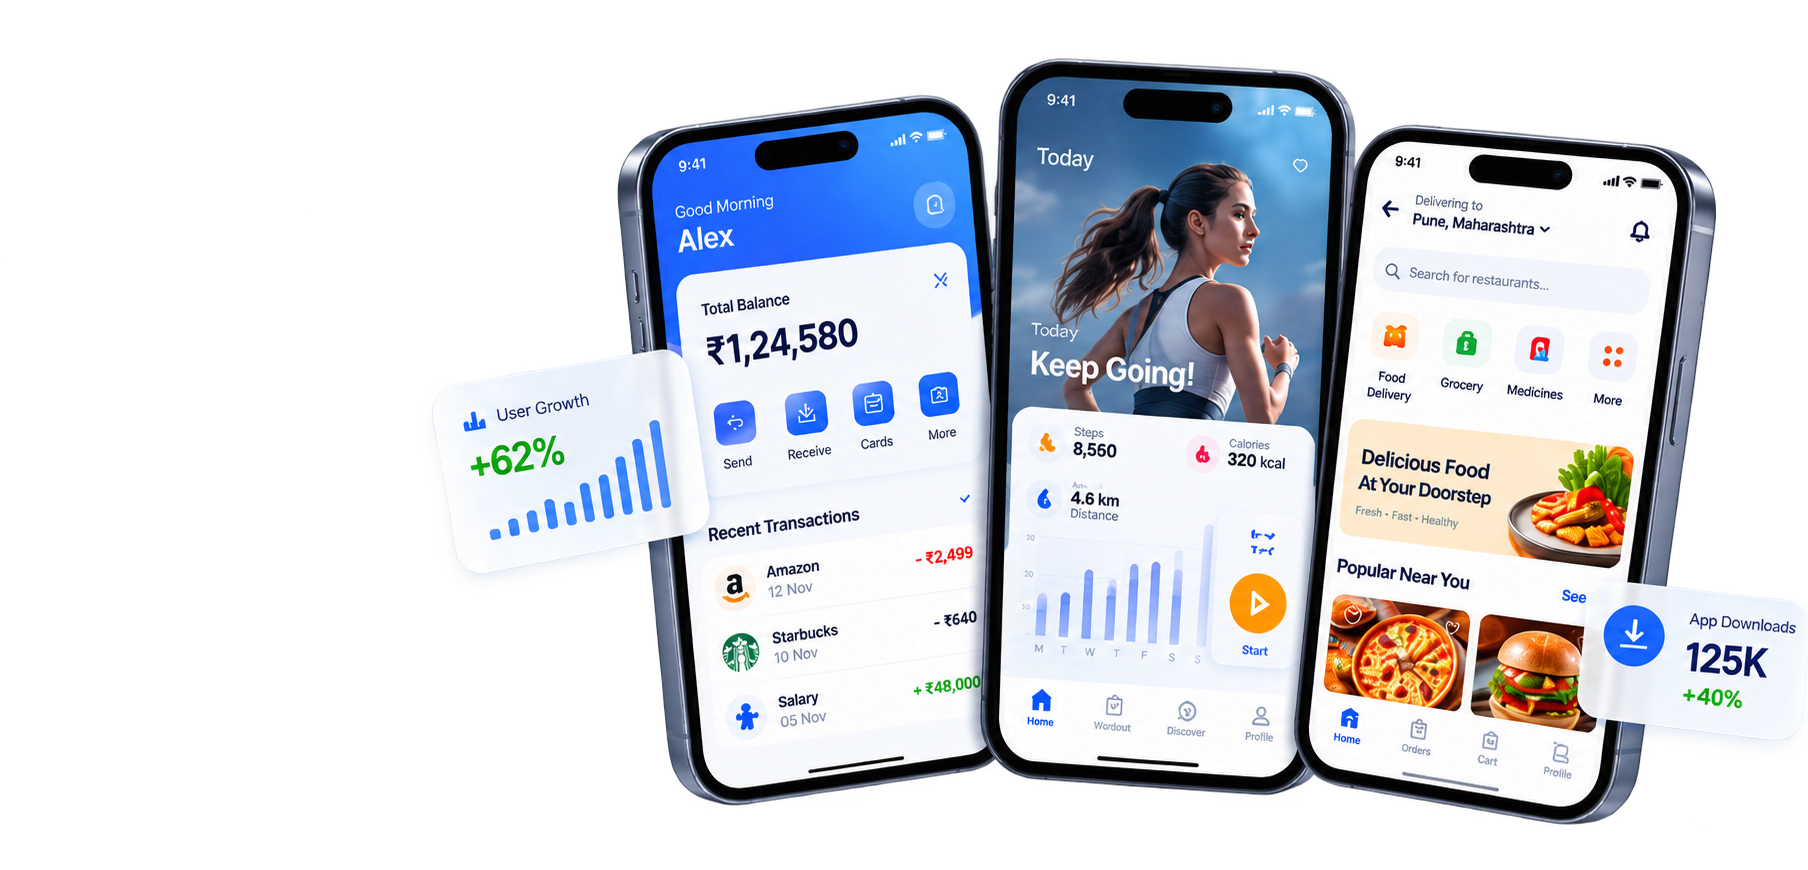
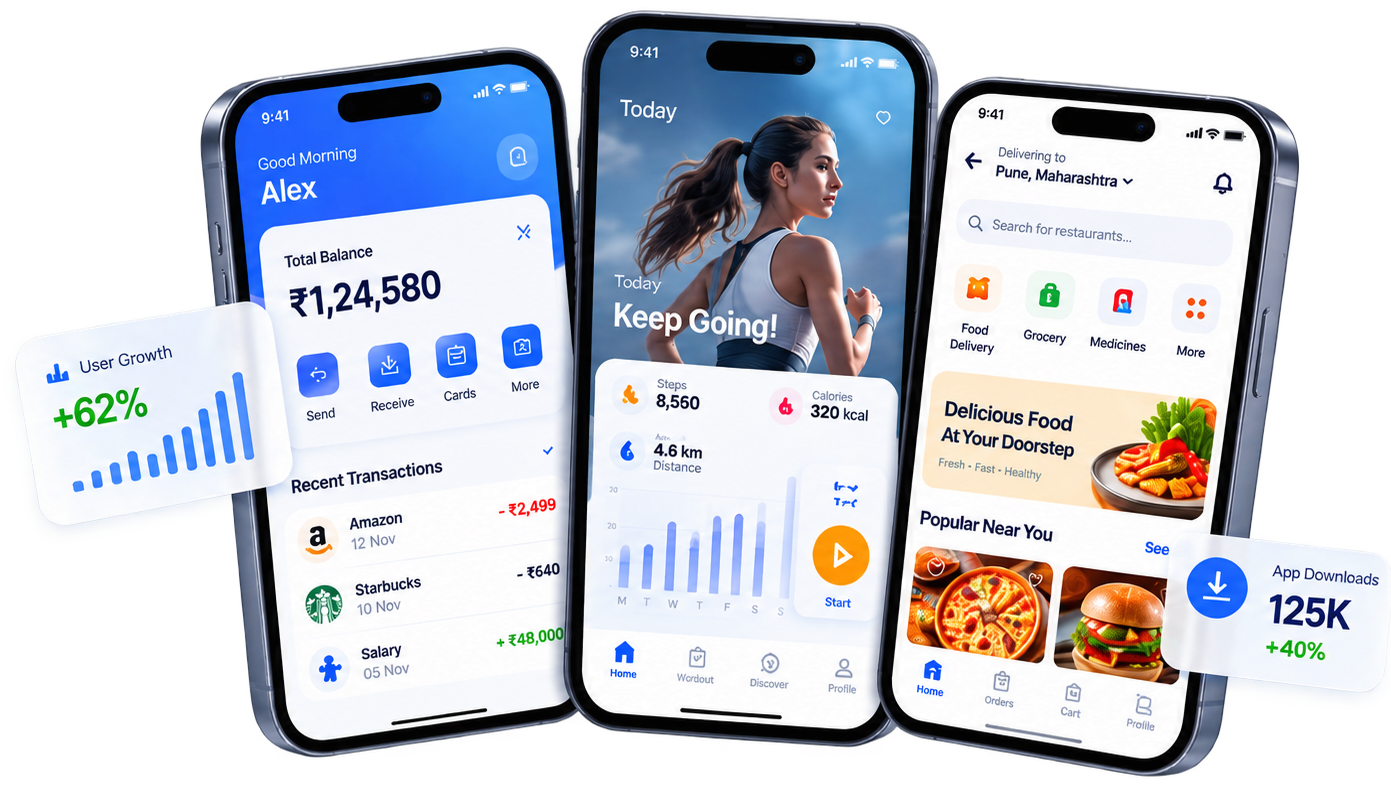
home page  ui

diff --git a/src/pages/Careers.tsx b/src/pages/Careers.tsx
@@ -1,11 +1,5 @@
-import { useState, useRef, useEffect } from "react";
+import { useState, useRef } from "react";
 import { motion, useInView } from "framer-motion";
-import gsap from "gsap";
-import { ScrollTrigger } from "gsap/ScrollTrigger";
-
-if (typeof window !== "undefined") {
-  gsap.registerPlugin(ScrollTrigger);
-}
 import {
   Rocket,
   GraduationCap,
@@ -122,112 +116,9 @@ const Careers = () => {
   const [isDragging, setIsDragging] = useState(false);
 
   const fileInputRef = useRef<HTMLInputElement>(null);
-  const sectionRef = useRef<HTMLDivElement>(null);
-  const imageWrapperRef = useRef<HTMLDivElement>(null);
-  const leftContentRef = useRef<HTMLDivElement>(null);
-  const targetPlaceholderRef = useRef<HTMLDivElement>(null);
   const contentRef = useRef<HTMLDivElement>(null);
 
   const contentInView = useInView(contentRef, { once: true, margin: "-50px" });
-
-  useEffect(() => {
-    if (typeof window === "undefined") return;
-
-    const mm = gsap.matchMedia();
-
-    mm.add(
-      {
-        isDesktop: "(min-width: 1024px) and (prefers-reduced-motion: no-preference)",
-        isMobileOrReduced: "(max-width: 1023px), (prefers-reduced-motion: reduce)",
-      },
-      (context) => {
-        const { isDesktop } = context.conditions as {
-          isDesktop: boolean;
-          isMobileOrReduced: boolean;
-        };
-
-        if (
-          isDesktop &&
-          sectionRef.current &&
-          imageWrapperRef.current &&
-          leftContentRef.current &&
-          targetPlaceholderRef.current
-        ) {
-          const section = sectionRef.current;
-          const imageWrapper = imageWrapperRef.current;
-          const leftContent = leftContentRef.current;
-          const targetPlaceholder = targetPlaceholderRef.current;
-
-          const getTargetBounds = () => {
-            const sRect = section.getBoundingClientRect();
-            const tRect = targetPlaceholder.getBoundingClientRect();
-            return {
-              top: Math.round(tRect.top - sRect.top),
-              right: Math.round(Math.max(0, sRect.right - tRect.right)),
-              width: Math.round(tRect.width),
-              height: Math.round(tRect.height),
-            };
-          };
-
-          // Initial state: full-width, full-height image covering section, no text visible
-          gsap.set(leftContent, { opacity: 0, x: -40 });
-          gsap.set(imageWrapper, {
-            position: "absolute",
-            top: 0,
-            right: 0,
-            width: "100%",
-            height: "100%",
-            borderRadius: 0,
-            boxShadow: "none",
-          });
-
-          const tl = gsap.timeline({
-            scrollTrigger: {
-              trigger: section,
-              start: "top top",
-              end: "+=120%",
-              pin: true,
-              pinSpacing: true,
-              scrub: 1.5,
-              anticipatePin: 1,
-              invalidateOnRefresh: true,
-            },
-          });
-
-          // Shrink image towards the right while revealing left content simultaneously
-          tl.to(
-            imageWrapper,
-            {
-              top: () => getTargetBounds().top,
-              right: () => getTargetBounds().right,
-              width: () => getTargetBounds().width,
-              height: () => getTargetBounds().height,
-              borderRadius: 24,
-              boxShadow:
-                "0 25px 60px -15px rgba(0, 82, 204, 0.18), 0 12px 25px -8px rgba(10, 27, 57, 0.12)",
-              ease: "power2.out",
-              duration: 1,
-            },
-            0
-          ).to(
-            leftContent,
-            {
-              opacity: 1,
-              x: 0,
-              ease: "power2.out",
-              duration: 0.85,
-            },
-            0.15
-          );
-        } else if (leftContentRef.current) {
-          // Mobile or reduced motion: make content immediately visible without pinning
-          gsap.set(leftContentRef.current, { opacity: 1, x: 0 });
-        }
-      }
-    );
-
-    return () => mm.revert();
-  }, []);
 
   const handleInputChange = (
     e: React.ChangeEvent<HTMLInputElement | HTMLTextAreaElement>
@@ -428,11 +319,10 @@ const Careers = () => {
       <Navbar />
 
       {/* ══════════════════════════════════════════════════
-          ACCENTURE-INSPIRED SCROLL-PINNED HERO SECTION
+          HERO SECTION
       ══════════════════════════════════════════════════ */}
       <section
-        ref={sectionRef}
-        className="relative w-full min-h-screen lg:h-screen overflow-hidden bg-gradient-to-b from-[#f3f7fd] via-[#f8faff] to-[#ffffff] border-b border-slate-100 flex items-center pt-28 pb-16 lg:py-0"
+        className="relative w-full overflow-hidden bg-gradient-to-b from-[#f3f7fd] via-[#f8faff] to-[#ffffff] border-b border-slate-100 flex items-center pt-28 pb-14 lg:pt-36 lg:pb-20"
       >
         {/* Soft Background Glow Effects */}
         <div className="absolute top-0 left-0 w-[500px] h-[500px] bg-blue-100/50 rounded-full blur-[120px] -translate-x-1/2 -translate-y-1/2 pointer-events-none" />
@@ -442,13 +332,10 @@ const Careers = () => {
         <div className="absolute top-0 left-0 w-36 sm:w-56 h-36 sm:h-56 bg-[radial-gradient(#475569_1.2px,transparent_1.2px)] [background-size:18px_18px] opacity-25 pointer-events-none" />
         <div className="absolute top-0 right-0 w-36 sm:w-56 h-36 sm:h-56 bg-[radial-gradient(#475569_1.2px,transparent_1.2px)] [background-size:18px_18px] opacity-25 pointer-events-none" />
 
-        <div className="container mx-auto px-4 sm:px-6 lg:px-12 relative z-10 max-w-7xl h-full flex items-center">
+        <div className="container mx-auto px-4 sm:px-6 lg:px-12 relative z-10 max-w-7xl">
           <div className="grid lg:grid-cols-12 gap-8 lg:gap-12 items-center w-full">
             {/* Left Column (55%): Headline & Value Highlights */}
-            <div
-              ref={leftContentRef}
-              className="lg:col-span-7 flex flex-col justify-center"
-            >
+            <div className="lg:col-span-7 flex flex-col justify-center">
               {/* Category Pill Tag with Accent Line */}
               <div className="flex items-center gap-2 mb-4">
                 <span className="text-[12px] sm:text-[13px] font-bold tracking-[0.14em] text-primary uppercase">
@@ -516,44 +403,16 @@ const Careers = () => {
               </div>
             </div>
 
-            {/* Right Column Target Anchor (45%) */}
-            <div
-              ref={targetPlaceholderRef}
-              className="lg:col-span-5 relative w-full aspect-[16/10.5] max-h-[380px] my-auto"
-            >
-              {/* Fallback image display for mobile devices */}
-              <div className="lg:hidden w-full h-full rounded-2xl overflow-hidden shadow-xl border border-slate-200/80">
-                <img
-                  src="/images/careers-hero.jpg"
-                  alt="Cybaem Tech Careers - Team Collaboration"
-                  className="w-full h-full object-cover object-center"
-                />
-                <div className="absolute inset-0 bg-gradient-to-t from-black/25 via-transparent to-transparent pointer-events-none" />
-              </div>
+            {/* Right Column (45%): Hero Image */}
+            <div className="lg:col-span-5 relative w-full aspect-[16/10.5] max-h-[400px] my-auto rounded-2xl overflow-hidden shadow-xl border border-slate-200/80">
+              <img
+                src="/images/careers-hero.jpg"
+                alt="Cybaem Tech Careers - Team Collaboration"
+                className="w-full h-full object-cover object-center"
+              />
+              <div className="absolute inset-0 bg-gradient-to-t from-black/25 via-transparent to-transparent pointer-events-none" />
             </div>
           </div>
-        </div>
-
-        {/* Desktop Pinned Full-Screen Animated Image Layer */}
-        <div
-          ref={imageWrapperRef}
-          className="hidden lg:block absolute z-20 overflow-hidden shadow-2xl border border-slate-200/60"
-          style={{
-            top: 0,
-            right: 0,
-            width: "100%",
-            height: "100%",
-            borderRadius: "0px",
-          }}
-        >
-          <img
-            src="/images/careers-hero.jpg"
-            alt="Cybaem Tech Careers - Team Collaboration"
-            className="w-full h-full object-cover object-center"
-            loading="eager"
-          />
-          {/* Subtle gradient vignette */}
-          <div className="absolute inset-0 bg-gradient-to-t from-black/25 via-transparent to-transparent pointer-events-none" />
         </div>
       </section>
 
@@ -1055,7 +914,7 @@ const Careers = () => {
                         <div className="w-7 h-7 rounded-lg bg-blue-100 text-primary flex items-center justify-center shrink-0">
                           <Phone size={14} />
                         </div>
-                        <span>+91 85301 71515</span>
+                        <span>+91 8600170900</span>
                       </a>
                     </div>
                   </div>

diff --git a/src/components/SolutionsSection.tsx b/src/components/SolutionsSection.tsx
@@ -406,7 +406,7 @@ const SolutionsSection = () => {
     <section
       ref={sectionRef}
       id="solutions"
-      className="relative min-h-screen py-16 sm:py-20 lg:py-24 bg-white overflow-hidden border-t border-b border-slate-100 flex flex-col justify-center"
+      className="relative lg:min-h-screen pt-6 pb-12 sm:pt-10 sm:pb-16 lg:py-24 bg-white overflow-hidden border-t border-b border-slate-100 flex flex-col justify-start lg:justify-center"
     >
       {/* ── BACKGROUND: Clean White with subtle enterprise dots and ambient blue glow ── */}
       <div className="absolute inset-0 z-0 overflow-hidden pointer-events-none select-none">
@@ -418,7 +418,7 @@ const SolutionsSection = () => {
         {/* ── SECTION HEADER: Centered Title & Subtitle + Nav Arrows on Right ── */}
         <div
           ref={headerRef}
-          className="relative flex flex-col items-center justify-center text-center mb-8 sm:mb-10 lg:mb-12 will-change-[opacity,transform]"
+          className="relative flex flex-col items-center justify-center text-center mb-6 sm:mb-8 lg:mb-12 will-change-[opacity,transform]"
         >
           <div className="flex flex-col items-center justify-center text-center max-w-3xl mx-auto">
             <h2
@@ -435,10 +435,10 @@ const SolutionsSection = () => {
             </p>
           </div>
 
-          {/* Minimal Navigation Arrows matching the clean light theme */}
+          {/* Minimal Navigation Arrows matching the clean light theme (Desktop only) */}
           <div
             ref={headerArrowsRef}
-            className="hidden sm:flex absolute right-0 bottom-1 items-center gap-2.5"
+            className="hidden lg:flex absolute right-0 bottom-1 items-center gap-2.5"
           >
             <button
               onClick={() => handleScroll("left")}
@@ -492,18 +492,18 @@ const SolutionsSection = () => {
           >
             <div
               ref={scrollContainerRef}
-              className="flex overflow-x-auto lg:overflow-visible scrollbar-none snap-x snap-mandatory -mx-5 px-5 lg:mx-0 lg:px-0"
+              className="w-full"
             >
               <div
                 ref={cardsGridRef}
-                className="flex lg:grid lg:grid-cols-3 gap-5 sm:gap-6 lg:gap-8 items-start w-full relative"
+                className="grid grid-cols-1 lg:grid-cols-3 gap-8 sm:gap-10 lg:gap-8 items-start w-full relative"
                 style={{ perspective: 1200 }}
               >
                 {servicesData.map((service, index) => (
                   <div
                     key={service.id}
                     ref={(el) => (cardRefs.current[index] = el)}
-                    className="w-[85vw] sm:w-[360px] lg:w-auto shrink-0 lg:shrink snap-start will-change-transform"
+                    className="w-full will-change-transform"
                     style={{ transformStyle: "preserve-3d" }}
                   >
                     <Link

diff --git a/src/pages/services/WebSystems.tsx b/src/pages/services/WebSystems.tsx
@@ -113,19 +113,19 @@ const galleryImages = [
 const Hero = () => {
   const { openConsultationModal } = useConsultationModal();
   return (
-    <section className="relative pt-12 pb-8 lg:pt-16 lg:pb-12 overflow-hidden bg-background">
+    <section className="relative pt-24 sm:pt-28 lg:pt-16 pb-8 lg:pb-12 overflow-hidden bg-background">
       {/* Background Dots Pattern */}
       <div className="absolute inset-0 z-0 opacity-[0.03]" style={{ backgroundImage: "radial-gradient(circle, #000 1px, transparent 1px)", backgroundSize: "24px 24px" }} />
 
       <div className="container mx-auto px-6 lg:px-12 relative z-10">
-        <div className="grid lg:grid-cols-[1.1fr_0.9fr] gap-12 lg:gap-8 items-center mb-4 lg:mb-6">
+        <div className="grid lg:grid-cols-[1.1fr_0.9fr] gap-5 lg:gap-8 items-center mb-4 lg:mb-6">
 
           {/* Left Column */}
           <motion.div
             variants={containerVariants}
             initial="hidden"
             animate="visible"
-            className="max-w-2xl"
+            className="max-w-2xl order-2 lg:order-1"
           >
             {/* Badge */}
             <motion.div variants={itemVariants} className="inline-flex items-center gap-2 px-4 py-1.5 rounded-full bg-blue-100/60 border border-blue-200/50 mb-6">
@@ -137,8 +137,8 @@ const Hero = () => {
 
             {/* Title */}
             <motion.h1 variants={itemVariants} className="font-display text-4xl sm:text-5xl lg:text-6xl xl:text-[68px] font-extrabold leading-[1.05] text-[#0a1930] tracking-tight mb-6">
-              Custom Web Systems &<br />
-              <span className="text-primary italic font-serif tracking-normal pr-4">Application Development</span>
+              Custom Web Systems &  
+              <span className="text-primary italic font-serif tracking-normal pr-4"> Application Development</span>
             </motion.h1>
 
             {/* Description */}
@@ -177,7 +177,7 @@ const Hero = () => {
             initial={{ opacity: 0, scale: 0.95, x: 20 }}
             animate={{ opacity: 1, scale: 1, x: 0 }}
             transition={{ type: "spring", stiffness: 60, damping: 20, delay: 0.2 }}
-            className="relative w-full h-full flex justify-center lg:justify-end items-center"
+            className="relative w-full h-full flex justify-center lg:justify-end items-center order-1 lg:order-2"
           >
             {/* Main Hero Image */}
             <div className="relative w-full lg:w-[120%] max-w-[950px] aspect-[4/3] sm:aspect-auto sm:h-[500px] lg:h-[750px] z-20 flex items-center justify-center">

diff --git a/src/pages/services/MobileApp.tsx b/src/pages/services/MobileApp.tsx
@@ -695,13 +695,13 @@ const MobileApp = () => {
                 initial={{ opacity: 0, scale: 0.95, y: 15 }}
                 animate={{ opacity: 1, scale: 1, y: 0 }}
                 transition={{ duration: 0.55, delay: 0.15 }}
-                className="relative w-full lg:w-[128%] xl:w-[136%] shrink-0 flex items-center justify-center lg:justify-end lg:-mr-8 xl:-mr-14"
+                className="relative w-full shrink-0 flex items-center justify-center lg:justify-end"
               >
-                <div className="w-full flex items-center justify-center -translate-x-[7.5%] sm:-translate-x-[4%] lg:translate-x-0 my-3 lg:my-0">
+                <div className="w-full flex items-center justify-center my-2 sm:my-0">
                   <img
                     src={mobileHeaderImg}
                     alt="Mobile App Development - iOS, Android & Cross-Platform Applications"
-                    className="w-[125%] xs:w-[130%] sm:w-[115%] lg:w-full h-auto max-h-[580px] xs:max-h-[640px] sm:max-h-[700px] lg:max-h-[850px] xl:max-h-[950px] object-contain drop-shadow-[0_30px_60px_rgba(37,99,235,0.2)] transition-transform duration-500 hover:scale-[1.03] scale-140 xs:scale-145 sm:scale-120 lg:scale-115 xl:scale-120 origin-center lg:origin-right"
+                    className="w-full h-auto max-h-[480px] sm:max-h-[520px] lg:max-h-[500px] xl:max-h-[540px] object-contain drop-shadow-[0_25px_50px_rgba(37,99,235,0.18)] scale-100 lg:scale-[0.92] xl:scale-[0.96] origin-center lg:origin-right"
                   />
                 </div>
               </motion.div>

diff --git a/src/components/AboutUsSection.tsx b/src/components/AboutUsSection.tsx
@@ -12,7 +12,7 @@ import aboutUsTeamImg from "@/assets/about-us-team.jpg";
 
 export default function AboutUsSection() {
   return (
-    <section id="about-us" className="relative py-16 sm:py-20 lg:py-24 bg-white overflow-hidden border-b border-slate-100">
+    <section id="about-us" className="relative pt-12 pb-10 sm:py-20 lg:py-24 bg-white overflow-hidden border-b border-slate-100">
       {/* Subtle Background Pattern */}
       <div className="absolute inset-0 bg-[radial-gradient(#e2e8f0_1px,transparent_1px)] [background-size:24px_24px] opacity-40 pointer-events-none" />
 
